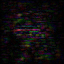
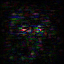
identified fake image for gradient check

diff --git a/analyze.py b/analyze.py
@@ -157,7 +157,11 @@ def plot_cnn_filters():
 
 def plot_image_gradients():
   data = FaceImageDataset('valid', do_fft=False, do_augment=False)
-  base_image, _ = data[0]
+  base_image = None
+  label = None
+  while label != 0:
+    i = np.random.randint(len(data))
+    base_image, label = data[i]
   for spec in MODELS:
     image = torch.clone(base_image).expand(1, 3, IMAGE_SIZE, IMAGE_SIZE)
     image.requires_grad_()
